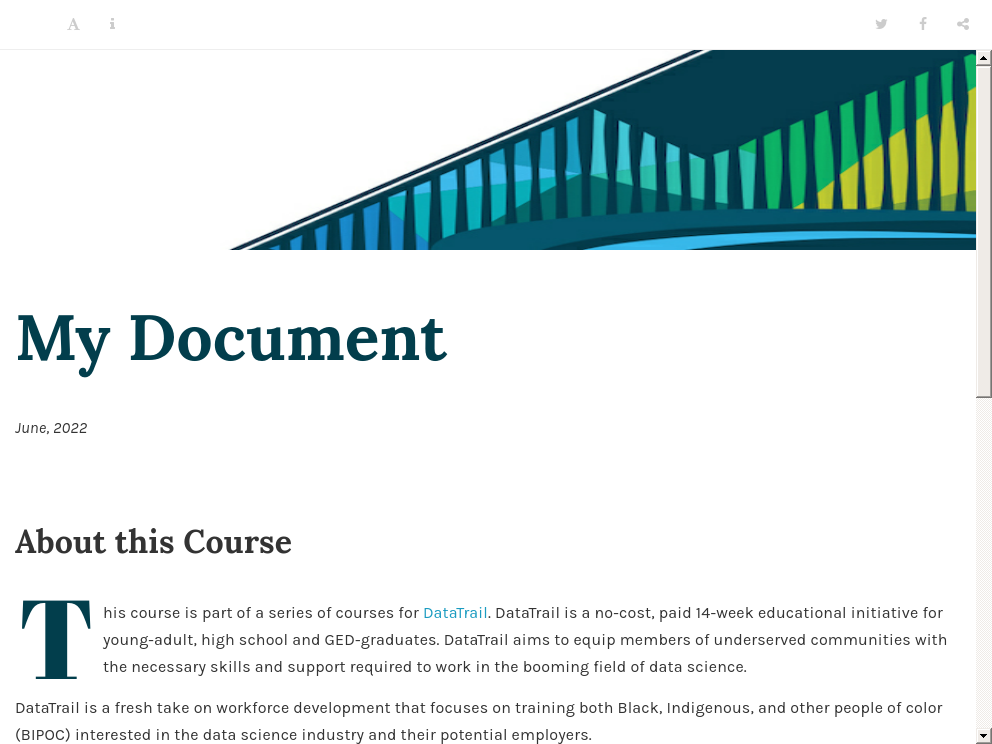
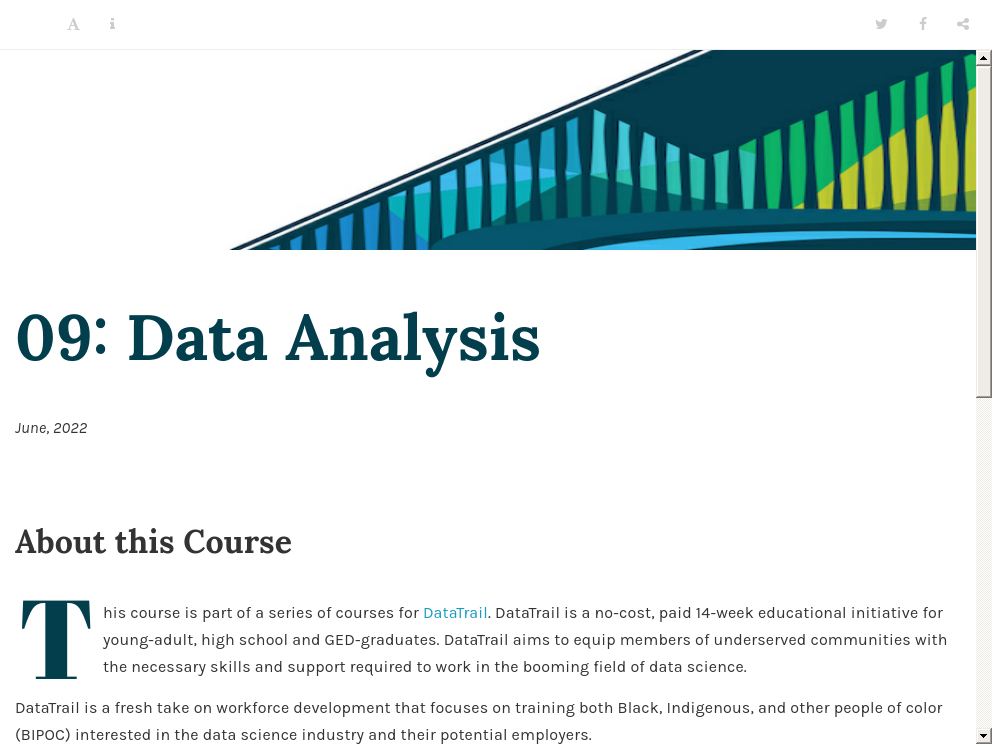
Render Leanpub

Changed region(s): [[0.0, 0.4019, 0.5625, 0.5255]]

diff --git a/manuscript/11-Prediction-and-Machine-Learning.md b/manuscript/11-Prediction-and-Machine-Learning.md
@@ -1,0 +1,7 @@
+# 11 Prediction and Machine Learning
+ 
+{type: iframe, title:11 Prediction and Machine Learning, width:800, height:600, poster:resources/chapt_screen_images/prediction-and-machine-learning.png}
+![](https://datatrail-jhu.github.io/09_dataanalysis/no_toc/prediction-and-machine-learning.html)
+ 
+
+ 

diff --git a/manuscript/15-Final-Project-Exercise.md b/manuscript/15-Final-Project-Exercise.md
@@ -1,0 +1,7 @@
+# 15 Final Project Exercise
+ 
+{type: iframe, title:15 Final Project Exercise, width:800, height:600, poster:resources/chapt_screen_images/final-project-exercise.png}
+![](https://datatrail-jhu.github.io/09_dataanalysis/no_toc/final-project-exercise.html)
+ 
+
+ 

diff --git a/manuscript/16-References.md b/manuscript/16-References.md
@@ -1,0 +1,7 @@
+# 16 References
+ 
+{type: iframe, title:16 References, width:800, height:600, poster:resources/chapt_screen_images/references.png}
+![](https://datatrail-jhu.github.io/09_dataanalysis/no_toc/references.html)
+ 
+
+ 
